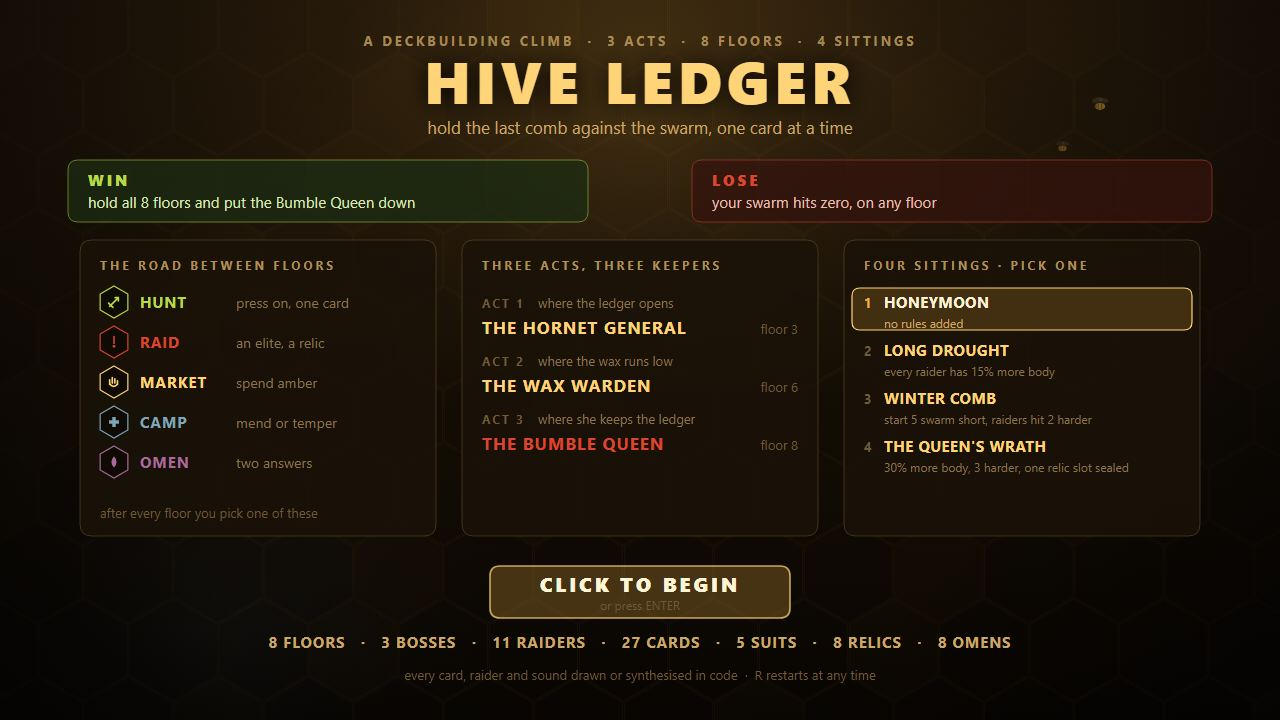
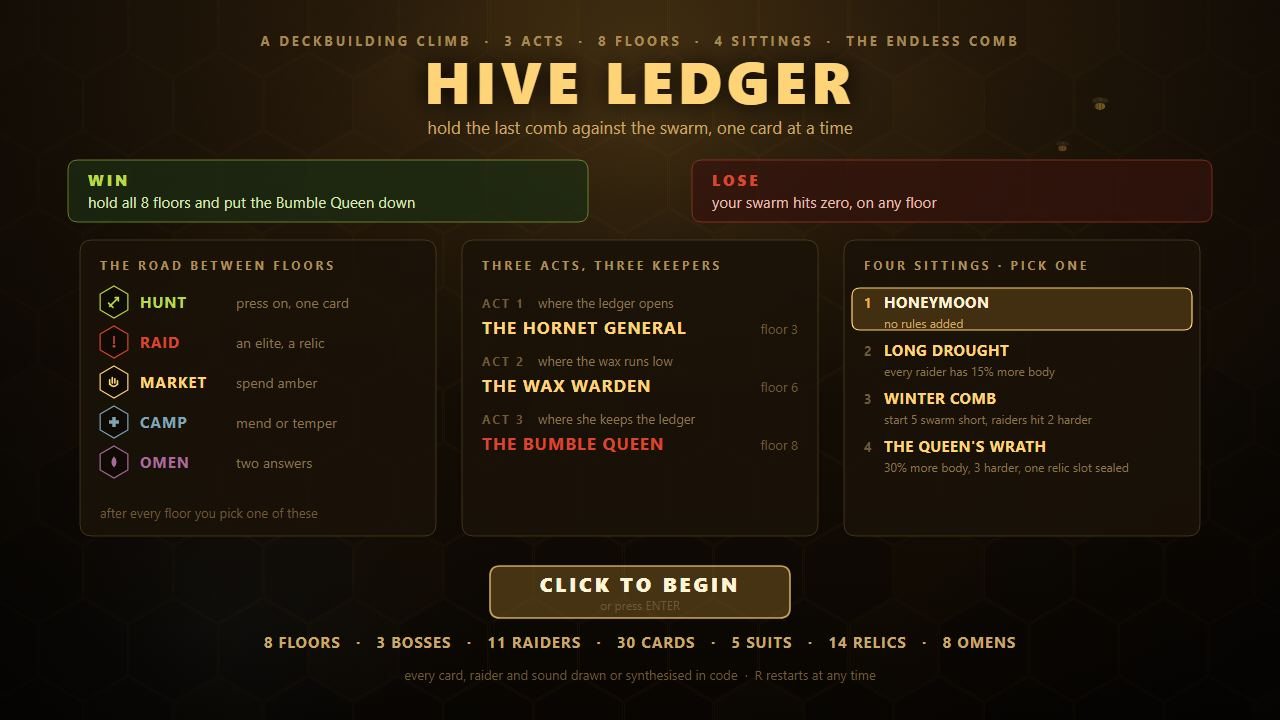
v8: the endless comb beyond the Queen, 6 new relics, 3 new cards, dense pitch

diff --git a/game/src/relics.js b/game/src/relics.js
@@ -54,6 +54,42 @@ export const RELICS = [
     glyph: 'stone',
     text: 'Gain +1 nectar max and heal 4 swarm.',
   },
+  {
+    id: 'comb-cistern',
+    name: 'COMB CISTERN',
+    glyph: 'ladle',
+    text: 'Every fight starts with 6 nectar.',
+  },
+  {
+    id: 'night-pollen',
+    name: 'NIGHT POLLEN',
+    glyph: 'scent',
+    text: 'Every fight starts with 2 bees in the air.',
+  },
+  {
+    id: 'wax-echo',
+    name: 'WAX ECHO',
+    glyph: 'spoon',
+    text: 'Every turn starts with 4 wax.',
+  },
+  {
+    id: 'nectar-veil',
+    name: 'NECTAR VEIL',
+    glyph: 'wing',
+    text: 'Heal 2 swarm at the end of every turn.',
+  },
+  {
+    id: 'long-wick',
+    name: 'LONG WICK',
+    glyph: 'lens',
+    text: 'Gain 2 wax at the end of every turn.',
+  },
+  {
+    id: 'forager-drum',
+    name: 'FORAGER DRUM',
+    glyph: 'horn',
+    text: 'Your first GATHER card each fight gives +2 nectar.',
+  },
 ];
 
 export const RELICS_BY_ID = RELICS.reduce((map, relic) => {
@@ -88,9 +124,11 @@ export function relicDamageBonus(suit) {
 }
 
 export function relicOnCombatStart() {
-  state.relicFlags = { gather: false, turnEnd: false };
+  state.relicFlags = { gather: false, drum: false, turnEnd: false };
   if (hasRelic('wax-ladle')) gainWax(8);
   if (hasRelic('queen-scent')) spawnBees(1);
+  if (hasRelic('comb-cistern')) gainNectar(6);
+  if (hasRelic('night-pollen')) spawnBees(2);
   if (hasRelic('drone-horn')) {
     state.beePower += 2;
     boostBees(0);
@@ -101,6 +139,7 @@ export function relicOnTurnStart() {
   state.relicFlags = state.relicFlags || { gather: false, turnEnd: false };
   state.relicFlags.gather = false;
   if (hasRelic('iron-comb')) gainWax(8);
+  if (hasRelic('wax-echo')) gainWax(4);
 }
 
 export function relicOnCardPlayed(card) {
@@ -109,12 +148,18 @@ export function relicOnCardPlayed(card) {
     state.relicFlags.gather = true;
     gainNectar(1, true);
   }
+  if (card.suit === 'gather' && hasRelic('forager-drum') && !state.relicFlags.drum) {
+    state.relicFlags.drum = true;
+    gainNectar(2, true);
+  }
 }
 
 export function relicOnTurnEnd() {
   if (hasRelic('broken-wing')) {
     state.swarm = Math.max(1, state.swarm - 1);
   }
+  if (hasRelic('nectar-veil')) healSwarm(2);
+  if (hasRelic('long-wick')) gainWax(2);
 }
 
 export function relicIds() {

diff --git a/game/src/scenes.js b/game/src/scenes.js
@@ -6,7 +6,7 @@ import { startBattle, startRun } from './battle.js';
 import { addCardToDeck } from './deck.js';
 import { CARDS_BY_ID } from './cards.js';
 import { RELICS, grantRelic, hasRelic } from './relics.js';
-import { floorPaysRelic, floorPaysCard, isLastFloor, floorTitle, isBossFloor } from './floors.js';
+import { floorPaysRelic, floorPaysCard, isLastFloor, floorTitle, isBossFloor, LAST_FLOOR } from './floors.js';
 import { playSound } from './audio.js';
 import { healSwarm } from './hive.js';
 import { ascensionOf } from './ascension.js';
@@ -65,7 +65,7 @@ export function onFloorCleared() {
     bumpStat('elitesFelled', 1);
     state.nextFloorElite = false;
   }
-  if (isLastFloor(state.floor)) {
+  if (isLastFloor(state.floor) && !state.endless) {
     state.outcome = 'win';
     state.scene = 'end';
     state.phase = 'over';
@@ -133,6 +133,7 @@ export function choosePath(index) {
   state.coins += node.coins || 0;
   playSound('click');
   const next = state.floor + 1;
+  if (next > LAST_FLOOR) state.ascension = Math.min(3, Math.max(state.ascension, Math.ceil((next - LAST_FLOOR) / 3)));
   if (node.kind === 'battle') {
     startBattle(next, { elite: node.id === 'raid' });
     return true;
@@ -166,6 +167,7 @@ export function choosePath(index) {
 /** Out of a side room and into the next floor's fight. */
 export function leaveNode() {
   const next = state.floor + 1;
+  if (next > LAST_FLOOR) state.ascension = Math.min(3, Math.max(state.ascension, Math.ceil((next - LAST_FLOOR) / 3)));
   startBattle(next, {});
   playSound('start');
 }

diff --git a/game/src/render-battle.js b/game/src/render-battle.js
@@ -523,7 +523,7 @@ function drawLedger(ctx) {
     0
   );
   const holding = alive.filter((enemy) => enemy.intent && enemy.intent.type !== 'attack').length;
-  const nextFloor = Math.min(RULES.floors, state.floor + 1);
+  const nextFloor = state.endless ? state.floor + 1 : Math.min(RULES.floors, state.floor + 1);
   const cells = [
     {
       label: 'INCOMING',
@@ -538,10 +538,10 @@ function drawLedger(ctx) {
       color: PALETTE.wax,
     },
     {
-      label: state.floor >= RULES.floors ? 'THE LAST COMB' : 'NEXT FLOOR',
-      value: state.floor >= RULES.floors ? 'THE QUEEN WAITS' : floorName(nextFloor),
+      label: state.floor >= RULES.floors && !state.endless ? 'THE LAST COMB' : 'NEXT FLOOR',
+      value: state.floor >= RULES.floors && !state.endless ? 'THE QUEEN WAITS' : floorName(nextFloor),
       note:
-        state.floor >= RULES.floors
+        state.floor >= RULES.floors && !state.endless
           ? 'NO RELIEF BEYOND'
           : isBossFloor(nextFloor)
             ? 'BOSS FLOOR'

diff --git a/game/src/cards.js b/game/src/cards.js
@@ -37,6 +37,9 @@ export const CARDS = [
   { id: 'pierce', name: 'PIERCE', suit: 'sting', cost: 1, rarity: 'rare', art: 'sting', text: ['Deal 5 damage.', 'Ignores wax.'], fx: 'pierce' },
   { id: 'fury', name: 'FURY', suit: 'sting', cost: 3, rarity: 'epic', art: 'fury', text: ['Deal 9 damage', 'to ALL foes.'], fx: 'fury' },
   { id: 'last-sting', name: 'LAST STING', suit: 'sting', cost: 2, rarity: 'rare', art: 'fury', text: ['Deal 8 damage.', 'Double if hive is low.'], fx: 'lastSting' },
+  { id: 'twin-sting', name: 'TWIN STING', suit: 'sting', cost: 2, rarity: 'epic', art: 'sting', text: ['Deal 6 damage twice.'], fx: 'twinSting' },
+  { id: 'wax-fountain', name: 'WAX FOUNTAIN', suit: 'build', cost: 2, rarity: 'epic', art: 'comb', text: ['Gain 12 wax.'], fx: 'waxFountain' },
+  { id: 'summoning-cry', name: 'SUMMONING CRY', suit: 'hatch', cost: 3, rarity: 'epic', art: 'burst', text: ['Summon 3 bees.'], fx: 'summoningCry' },
 ];
 
 export const CARDS_BY_ID = CARDS.reduce((map, card) => {

diff --git a/game/src/floors.js b/game/src/floors.js
@@ -22,7 +22,16 @@ export const ACTS = [
 
 export const LAST_FLOOR = FLOOR_PLAN.length;
 
+const ECHO_NAMES = ['ECHO', 'ECHO II', 'ECHO III', 'ECHO IV', 'ECHO V', 'ECHO VI'];
+
 export function floorConfig(floor) {
+  if (floor > LAST_FLOOR) {
+    const cycle = FLOOR_PLAN.length;
+    const back = floor - LAST_FLOOR - 1;
+    const base = FLOOR_PLAN[back % cycle];
+    const loop = Math.min(ECHO_NAMES.length - 1, Math.floor(back / cycle));
+    return { ...base, floor, name: base.name + ' ' + ECHO_NAMES[loop] };
+  }
   return FLOOR_PLAN[Math.min(LAST_FLOOR, Math.max(1, floor)) - 1];
 }
 
@@ -52,7 +61,7 @@ export function actOf(floor) {
 }
 
 export function floorTitle(floor) {
-  return `FLOOR ${floor} / ${LAST_FLOOR}`;
+  return floor > LAST_FLOOR ? `FLOOR ${floor} · THE ENDLESS COMB` : `FLOOR ${floor} / ${LAST_FLOOR}`;
 }
 
 export function floorName(floor) {

diff --git a/game/src/run.js b/game/src/run.js
@@ -1,7 +1,7 @@
 // The shape of a run between the fights. After every floor the keeper picks what to do before the
 // next one: press on light, take the elite raid for a relic, or spend a stop at the market, the camp
 // or an omen. The fights themselves stay in battle.js; this file only decides what is on offer.
-import { isBossFloor } from './floors.js';
+import { isBossFloor, floorConfig } from './floors.js';
 import { ascensionOf } from './ascension.js';
 
 export const NODE_KINDS = {
@@ -95,5 +95,9 @@ export const BOSS_NAMES = {
 };
 
 export function bossNameOf(floor) {
+  if (floor > 8) {
+    const cfg = floorConfig(floor);
+    return cfg && cfg.boss ? cfg.name : '';
+  }
   return BOSS_NAMES[floor] || '';
 }

diff --git a/game/src/boot.js b/game/src/boot.js
@@ -70,7 +70,7 @@ function paint() {
 function announceState() {
   if (!announce) return;
   if (state.scene === 'title') {
-    announce.textContent = `HIVE LEDGER. Best floor ${state.bestFloor} of 8. Press 1 to 4 to pick a difficulty, then click to begin.`;
+    announce.textContent = `HIVE LEDGER. Best floor ${state.bestFloor} of 8. Press 1 to 4 for difficulty, E to arm the endless comb, then click to begin.`;
     return;
   }
   if (state.scene === 'reward') {

diff --git a/game/src/render-cover.js b/game/src/render-cover.js
@@ -52,7 +52,7 @@ function backdrop(ctx) {
 function titleBlock(ctx) {
   paintText(
     ctx,
-    `A DECKBUILDING CLIMB  ·  ${ACTS.length} ACTS  ·  ${LAST_FLOOR} FLOORS  ·  ${ASCENSIONS.length} SITTINGS`,
+    `A DECKBUILDING CLIMB  ·  ${ACTS.length} ACTS  ·  ${LAST_FLOOR} FLOORS  ·  ${ASCENSIONS.length} SITTINGS  ·  THE ENDLESS COMB`,
     640,
     46,
     { align: 'center', size: 13, weight: 700, color: 'rgba(201, 168, 106, 0.78)', spacing: 3 },

diff --git a/game/index.html b/game/index.html
@@ -3,7 +3,7 @@
 <head>
 <meta charset="utf-8">
 <meta name="viewport" content="width=device-width, initial-scale=1">
-<title>HIVE LEDGER — a deckbuilding defense of the last comb</title>
+<title>HIVE LEDGER — a deckbuilding climb: 30 cards, 14 relics, 8 omens, the Bumble Queen, 4 difficulties + the endless comb</title>
 <link rel="icon" href="data:,">
 <link rel="stylesheet" href="./styles.css">
 </head>

diff --git a/game/src/card-effects.js b/game/src/card-effects.js
@@ -162,6 +162,17 @@ const EFFECTS = {
     const base = stingDamage(8);
     hitEnemy(currentTarget(), hiveIsLow() ? base * 2 : base);
   },
+  twinSting() {
+    const dmg = stingDamage(6);
+    hitEnemy(currentTarget(), dmg);
+    hitEnemy(currentTarget(), dmg);
+  },
+  waxFountain() {
+    gainWax(v(12));
+  },
+  summoningCry() {
+    spawnBees(v(3));
+  },
 };
 
 export function applyEffect(card) {

diff --git a/game/src/input.js b/game/src/input.js
@@ -262,6 +262,10 @@ function key(event) {
     return;
   }
   if (state.scene === 'title') {
+    if (tag === 'e' || tag === 'E') {
+      state.endless = !state.endless;
+      return;
+    }
     const sitting = Number(tag);
     if (Number.isInteger(sitting) && sitting >= 1 && sitting <= 4) {
       state.ascension = sitting - 1;

diff --git a/game/src/state.js b/game/src/state.js
@@ -31,6 +31,7 @@ export const state = {
   rewardChoices: [],
   rewardSource: '#000000',
   outcome: null,
+  endless: false,
   stats: {
     nectarGathered: 0,
     cardsPlayed: 0,
